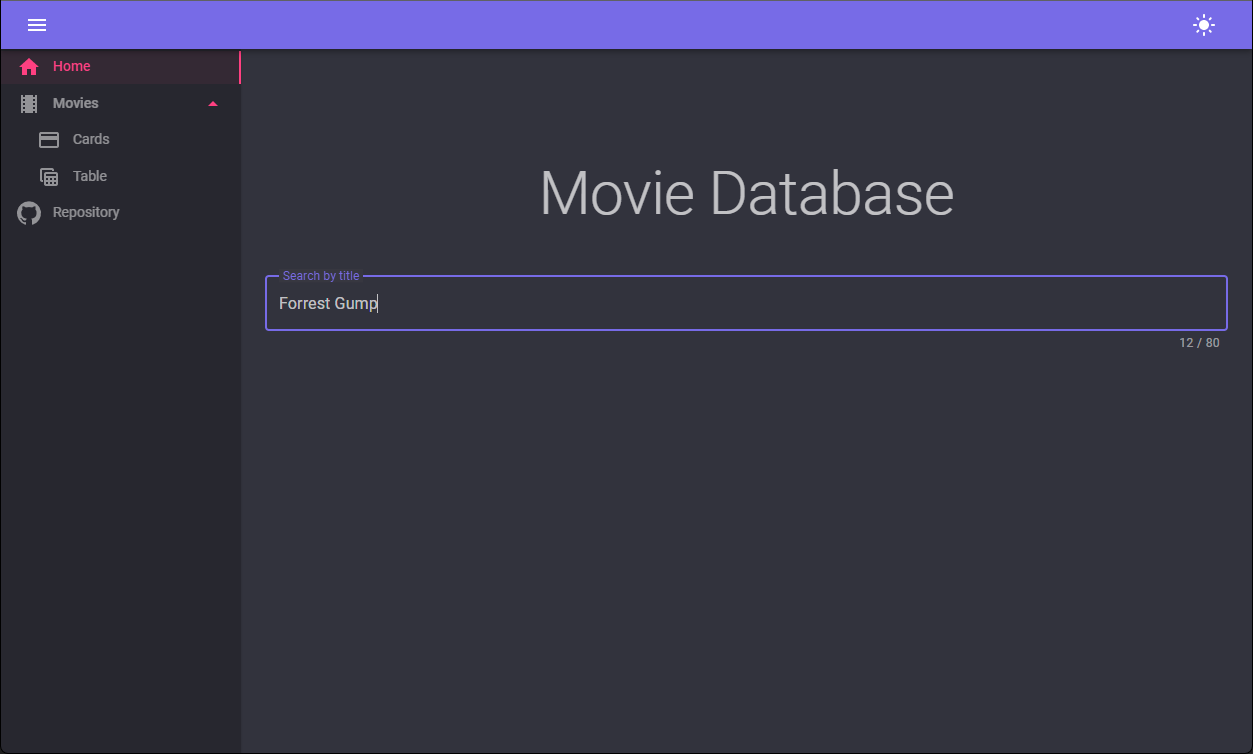
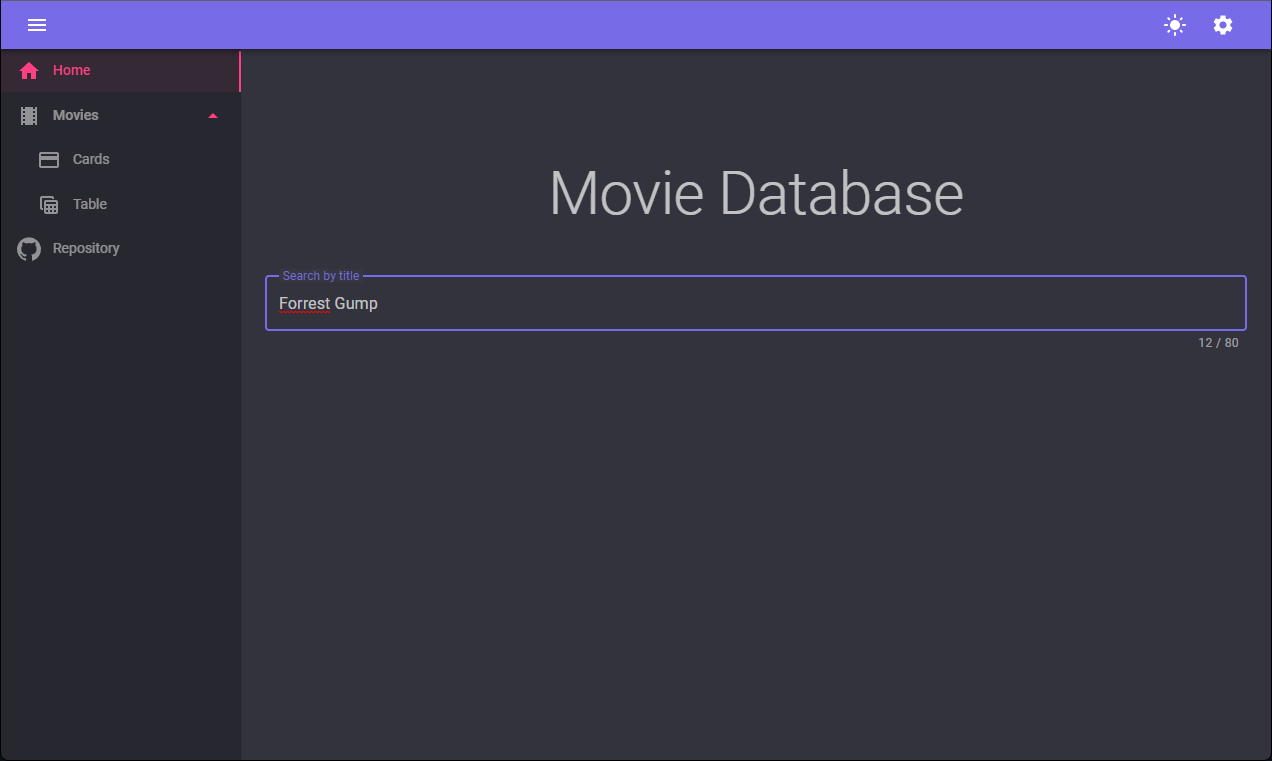
Remove hardcode key service

diff --git a/Services/OmdbFinder.cs b/Services/OmdbFinder.cs
@@ -1,4 +1,6 @@
-using BlazorMovieClient.Models;
+using Blazored.LocalStorage;
+
+using BlazorMovieClient.Models;
 
 using System.Net.Http.Json;
 
@@ -6,14 +8,15 @@ namespace BlazorMovieClient.Services
 {
     public sealed class OmdbFinder : IMovieFinder
     {
-        public const string Key = "";
-
         public bool IsSearching { get; set; }
-        private readonly IHttpClientFactory _httpClientFactory;
 
-        public OmdbFinder(IHttpClientFactory httpClientFactory)
+        private readonly IHttpClientFactory _httpClientFactory;
+        private readonly ILocalStorageService _localStorage;
+
+        public OmdbFinder(IHttpClientFactory httpClientFactory, ILocalStorageService localStorage)
         {
             _httpClientFactory = httpClientFactory;
+            _localStorage = localStorage;
         }
 
         public async Task<Movie?> ByTitleAsync(string title)
@@ -33,8 +36,9 @@ namespace BlazorMovieClient.Services
 
             try
             {
+                string key = await _localStorage.GetItemAsStringAsync("apikey");
                 HttpClient client = _httpClientFactory.CreateClient("Omdb");
-                return await client.GetFromJsonAsync<Movie>($"{resource}&apikey={Key}");
+                return await client.GetFromJsonAsync<Movie>($"{resource}&apikey={key}");
             }
             catch (Exception ex)
             {

diff --git a/Models/Movie.cs b/Models/Movie.cs
@@ -4,6 +4,9 @@ namespace BlazorMovieClient.Models;
 
 public sealed class Movie
 {
+    public bool Response { get; set; }
+    public string? Error { get; set; }
+
     private string? imdbId;
     [JsonPropertyName("imdbID")]
     public string? ImdbID

diff --git a/README.md b/README.md
@@ -4,13 +4,12 @@ Blazor webAssembly client application using [MudBlazor](https://mudblazor.com/) 
 
 ## Configuration
 
-Get an API KEY from `OmdnApi` and use in service implementation `OmdbFinder.cs`
+Get an API KEY from `OmdnApi` and enter settings value
 
-- 📂Services 
-  - 🗒[OmdbFinder.cs](./Services/OmdbFinder.cs) 
+![](./Screenshots/screen-settings.png) 
 
 ## Screenshots
 
 ![](./Screenshots/screen-home.png) 
-![](./Screenshots/screen-movies.png) 
+![](./Screenshots/screen-cards.png) 
 ![](./Screenshots/screen-table.png) 
